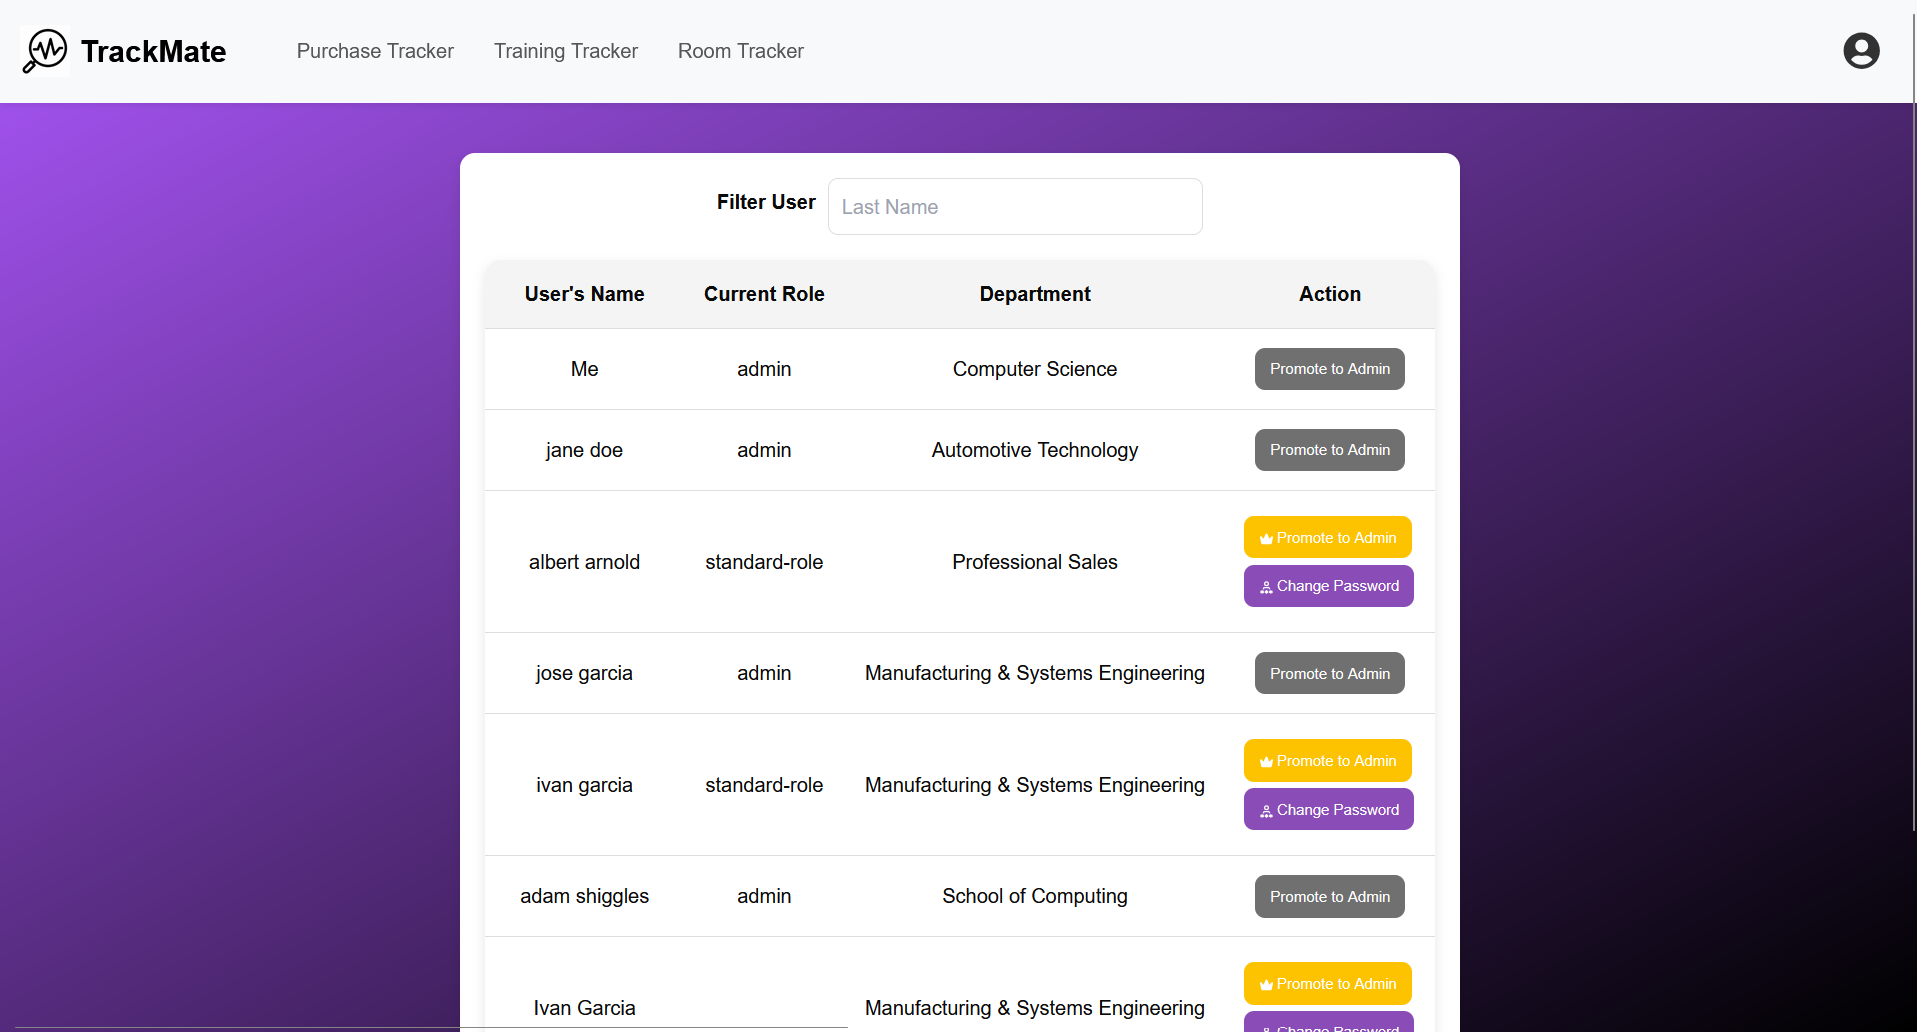
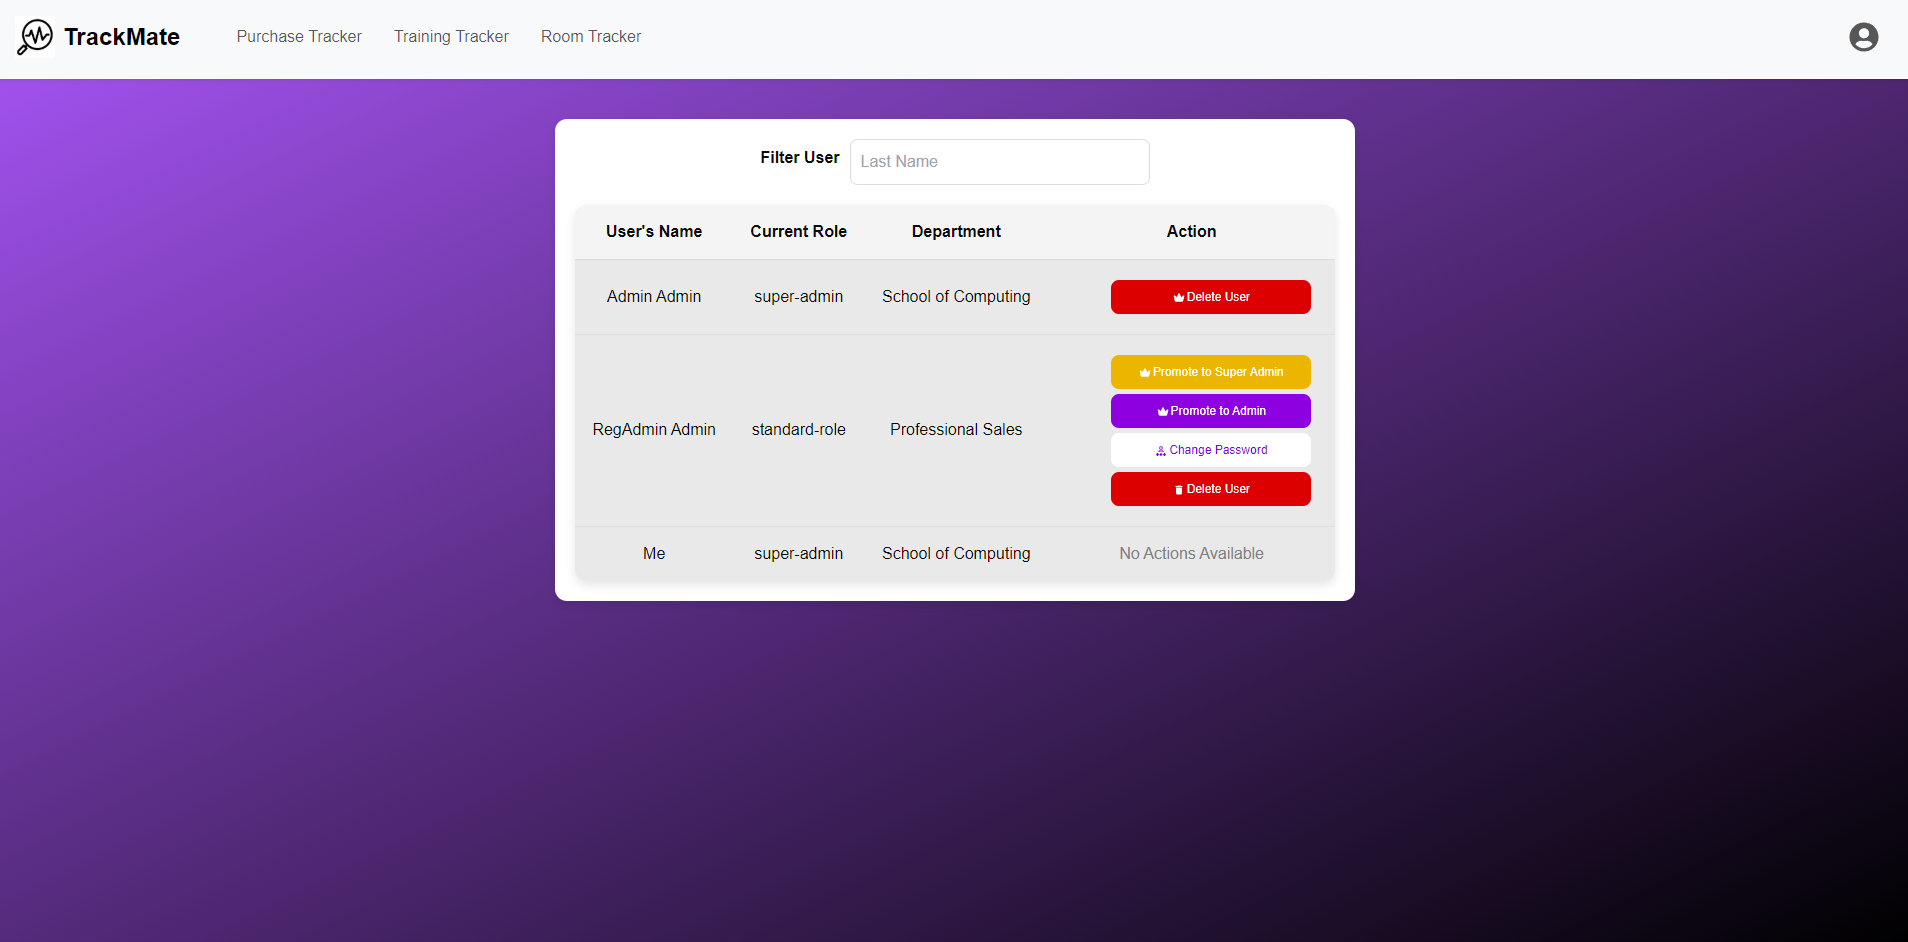
updated trackmate

diff --git a/src/TrackMate/views/TrackMateInfo.jsx b/src/TrackMate/views/TrackMateInfo.jsx
@@ -22,6 +22,10 @@ const TrackMateInfo = () =>{
                 For my capstone, two groups were assigned to this project to continue enhancing it according to Isabelle’s vision. One of her main goals is to share the system with other departments. To achieve this, user roles are essential, which in turn require an authentication system—this became my responsibility.
 
                 I built the front end of the authentication system using React.js and the backend with Node.js. To ensure the protection of user information, I implemented a salt and hash method using bcrypt.
+                the way the authentication system works is that when a user creates an account they have to be approved or else there account gets deleted by an admin the best part about this is that admins can handle this anywhere they want because
+                a email gets sent to all admins that allows them to approve a user or reject them with the click of a button.
+                Along with the authentication came user roles in which I also implemented primarily the Admin tools which allowed the admins to manage user permissions from a user friendly gui. There are situations where falculty who would have admin permissions would leave the university but come back so I added a archived 
+                accounts dashboard as well which is where 'deleted' accounts would go and can be reactivated from.
                 </Card.Text>
             </Card.Body>
     </Card>

diff --git a/src/TrackMate/components/TrackMateGallery.jsx b/src/TrackMate/components/TrackMateGallery.jsx
@@ -7,6 +7,8 @@ import {
 import trackMateSignup from '../../imgs/TrackMate-signup.png';
 import trackMateLogIn from '../../imgs/TrackMate-login.png';
 import trackMateAdminTools from '../../imgs/TrackMate-adminttools.png';
+import trackMateArchive from '../../imgs/TrackMate-Archived.png'
+import trackMateEmail from '../../imgs/email.png'
 import '../styles/ImageGallery.css';
 
 const TrackMateGallery = () => {
@@ -17,11 +19,19 @@ const TrackMateGallery = () => {
       </MDBCarouselItem>
 
       <MDBCarouselItem>
+        <img src={trackMateEmail} className="d-block w-auto" alt="Sign Up" />
+      </MDBCarouselItem>
+
+      <MDBCarouselItem>
         <img src={trackMateLogIn} className="d-block w-100" alt="Log In" />
       </MDBCarouselItem>
 
       <MDBCarouselItem>
         <img src={trackMateAdminTools} className="d-block w-100" alt="Admin Tools" />
+      </MDBCarouselItem>
+
+      <MDBCarouselItem>
+        <img src={trackMateArchive} className="d-block w-100" alt="Admin Archive" />
       </MDBCarouselItem>
     </MDBCarousel>
   );
